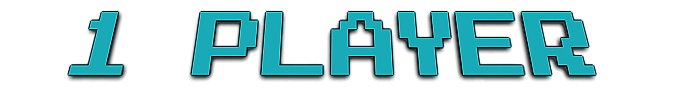
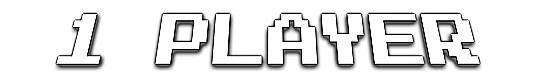
New and improved GUI elements

diff --git a/GameJam2016/Assets/Scripts/Menu.cs b/GameJam2016/Assets/Scripts/Menu.cs
@@ -10,10 +10,10 @@ public class Menu : MonoBehaviour {
 	bool ShowButton = true;
 
 	//boolean set true if the game settings have been confirmed
-	bool start = false;
+	bool canStart = false;
 
 	//the texture of our buttons
-	Texture2D p1, p2, p3, p4;
+	Texture2D p1, p2, p3, p4, start, create;
 
 	//initialize all fancy GUI
 	void Start() {
@@ -22,12 +22,15 @@ public class Menu : MonoBehaviour {
 		p2 = Resources.Load ("TwoPlayer") as Texture2D;
 		p3 = Resources.Load ("ThreePlayer") as Texture2D;
 		p4 = Resources.Load ("FourPlayer") as Texture2D;
+		start = Resources.Load ("StartMenu") as Texture2D;
+		create = Resources.Load ("CreateMatch") as Texture2D;
 	}
 
 	void update() {
 		if (Input.GetButtonDown("Submit")) {
 			ShowButton = false;
 		}
+		this.OnGUI();
 	}
 
 	//the gui of the the main menu 
@@ -36,7 +39,7 @@ public class Menu : MonoBehaviour {
 		GUI.backgroundColor = Color.clear;
 
 		if (ShowButton) {
-			if (GUI.Button (new Rect (Screen.width / 2 - 50, Screen.height / 2 + 50, 100, 100), "START")) {
+			if (GUI.Button (new Rect (Screen.width / 2 - 100, Screen.height / 2 + 50, 200, 100), start)) {
 				ShowButton = false;
 			}
 		}
@@ -45,24 +48,24 @@ public class Menu : MonoBehaviour {
 		if (!ShowButton) {	
 			if (GUI.Button (new Rect (Screen.width / 2 - Screen.width / 3 - 100, Screen.height / 2, 200, 100), p1)) {
 				GameSettings.Instance.players = 1;
-				start = true;
+				p1 = start;
+				canStart = true;
 			}
 			if (GUI.Button (new Rect (Screen.width / 2 - Screen.width / 9 - 100, Screen.height / 2, 200, 100), p2)) {
 				GameSettings.Instance.players = 2;
-				start = true;
+				canStart = true;
 			}
 			if (GUI.Button (new Rect (Screen.width / 2 + Screen.width / 9 - 100, Screen.height / 2, 200, 100), p3)) {
 				GameSettings.Instance.players = 3;
-				start = true;
+				canStart = true;
 			}
 			if (GUI.Button (new Rect (Screen.width / 2 + Screen.width / 3 - 100, Screen.height / 2, 200, 100), p4)) {
 				GameSettings.Instance.players = 4;
-				start = true;
+				canStart = true;
 			}
-
-			GUI.contentColor = Color.red;
-			if (GUI.Button (new Rect (Screen.width / 2 - 50, Screen.height / 2 + 125, 100, 50), "GO!") && start == true) {
+			if (GUI.Button (new Rect (Screen.width / 2 - 75, Screen.height / 2 + 90, 150, 75), create) && canStart == true) {
 				GameSettings.Instance.matchSet = true;	//set this to true
+				canStart = false;						//reset the match settings for new game
 				Application.LoadLevel (1);				//comment this - will load the level once the settings are good		
 			}
 		}

diff --git a/GameJam2016/Assets/Scripts/GameSettings.cs b/GameJam2016/Assets/Scripts/GameSettings.cs
@@ -15,6 +15,8 @@ public class GameSettings : MonoBehaviour {
 	//if timer runs out, end the match and prompt restart
 	public bool matchEnd = false;
 
+
+
 	private static GameSettings _instance;
 	public static GameSettings Instance
 	{
